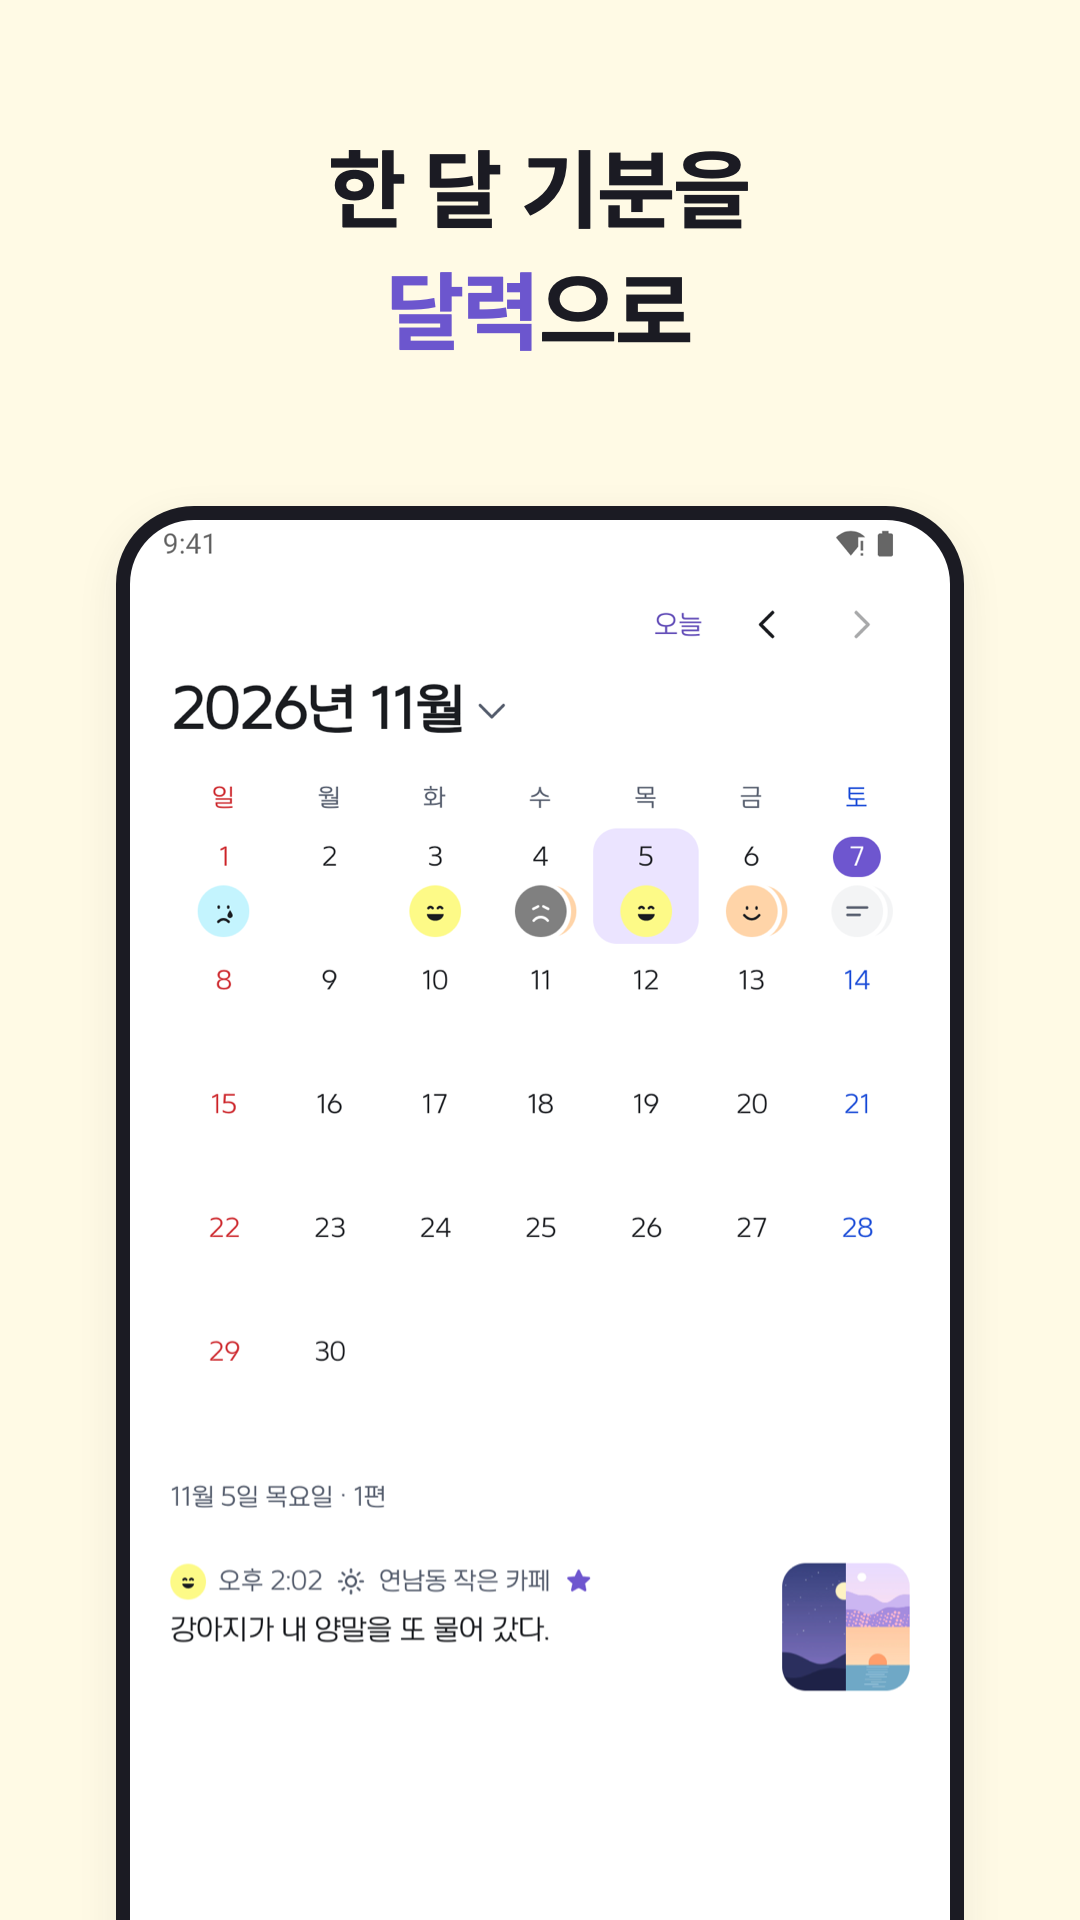
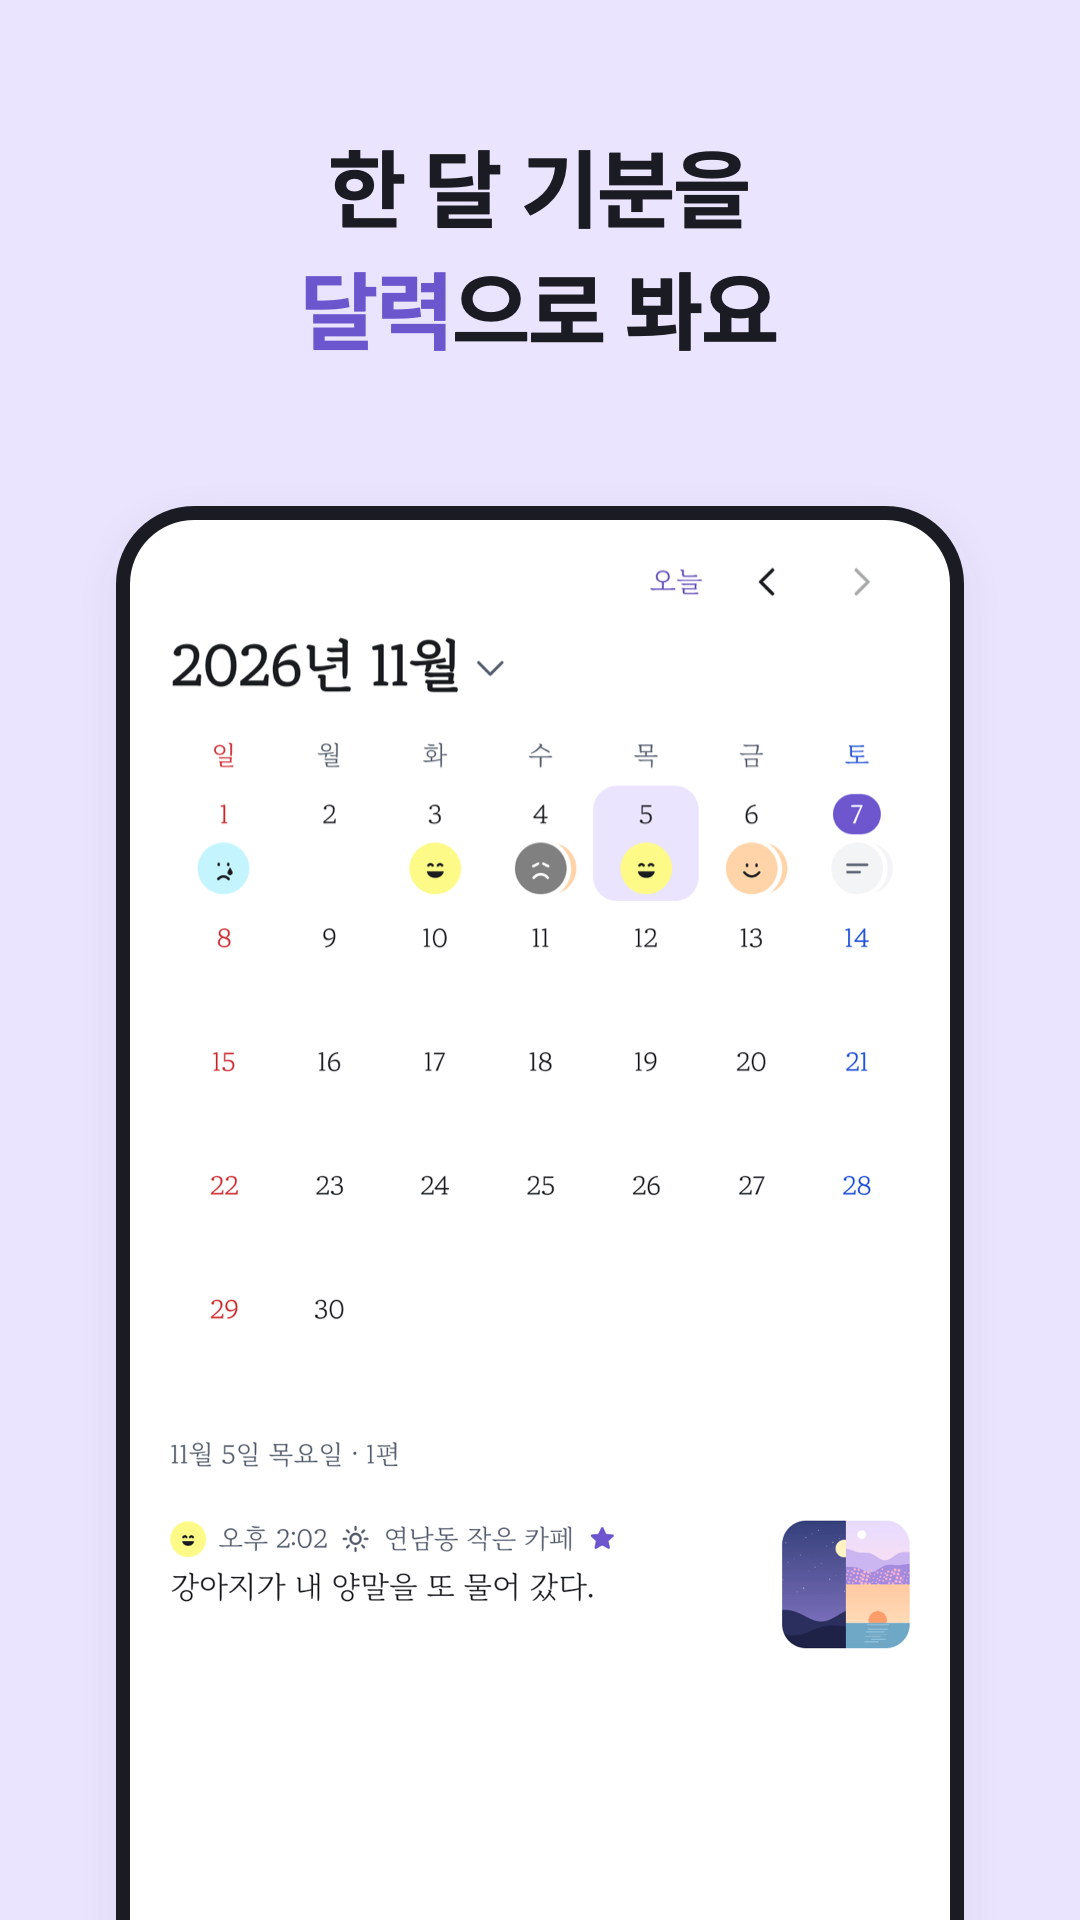
docs(release): 스토어 이미지를 시그니처 기능 다섯 장으로 다시 만들기
쓰기, 목록, 달력, 돌아보기, 백업만 보인다. 창원단감둥근체와 기본
피드형으로 찍고 상태 표시줄을 잘라 앱 전용 색 바탕 하나로 통일했다.
처리방침과 약관 문구를 다듬고 상호와 대표를 적었다.

diff --git a/scripts/store/make_screens.swift b/scripts/store/make_screens.swift
@@ -19,8 +19,8 @@ let ink = color(0x1B1B23)
 let weak = color(0x4A4A5C)
 let accent = color(0x6C56CE)
 
-/** 장마다 바뀌는 바탕. 앱의 기분 색에서 가져온다. */
-nonisolated(unsafe) var background = color(0xE7E0FF)
+/** 바탕은 앱 전용 색 하나다(`selected`). */
+let background = color(0xEBE4FF)
 
 func canvas(_ width: Int, _ height: Int, _ draw: () -> Void) -> NSBitmapImageRep {
     // 스토어는 알파 없는 PNG를 받는다.
@@ -48,6 +48,9 @@ func text(_ string: String, _ size: CGFloat, _ weight: String, _ tint: NSColor, 
     label.draw(in: rect)
 }
 
+/** 캡처 위쪽 상태 표시줄 높이. */
+let statusBar: CGFloat = 56
+
 func shot(_ name: String) -> NSImage { NSImage(contentsOfFile: "\(source)/\(name).png")! }
 
 func shadowed(_ alpha: CGFloat, _ blur: CGFloat, _ body: () -> Void) {
@@ -72,8 +75,10 @@ func phone(_ name: String, _ rect: NSRect, _ radius: CGFloat, bezel: Bool = true
     NSGraphicsContext.saveGraphicsState()
     NSBezierPath(roundedRect: rect, xRadius: radius, yRadius: radius).addClip()
     let image = shot(name)
-    let height = image.size.height * rect.width / image.size.width
-    image.draw(in: NSRect(x: rect.minX, y: rect.maxY - height, width: rect.width, height: height))
+    let scale = rect.width / image.size.width
+    let height = image.size.height * scale
+    // 상태 표시줄은 잘라 낸다.
+    image.draw(in: NSRect(x: rect.minX, y: rect.maxY - height + statusBar * scale, width: rect.width, height: height))
     NSGraphicsContext.restoreGraphicsState()
 }
 
@@ -82,18 +87,16 @@ func save(_ rep: NSBitmapImageRep, _ name: String) {
 }
 
 // 기준: 심플하고 미감 있고 잘 읽혀야 한다.
-// 옅은 바탕, 큰 제목, 곧게 놓은 실제 화면만 둔다.
+// 앱 색 바탕, 큰 제목, 곧게 놓은 실제 화면만 둔다.
 // 장식과 기울임을 넣지 않고 강조는 낱말 하나만 쓴다(2026-11-07 사용자 지적).
-let slides: [(UInt32, String, String, String)] = [
-    (0xF3F0FF, "w1", "바쁜 날에도\n일기를 남겨요", "일기"),
-    (0xEAF6FF, "b1", "사진까지\n내 드라이브에", "내 드라이브"),
-    (0xFFFAE5, "c1", "한 달 기분을\n달력으로", "달력"),
-    (0xFFF1F9, "l1", "내 일기는\n나만 보게", "나만"),
-    (0xEDFAF1, "f1", "글꼴 10종에서\n골라 써요", "10종"),
-    (0xFFF4E8, "h1", "지난 일기를\n사진과 함께", "사진")
+let slides: [(String, String, String)] = [
+    ("write", "오늘 기분부터\n가볍게 적어 봐요", "기분"),
+    ("list", "지난 일기가\n한눈에 보여요", "한눈에"),
+    ("calendar", "한 달 기분을\n달력으로 봐요", "달력"),
+    ("insight", "내 기분 흐름을\n돌아봐요", "돌아봐요"),
+    ("backup", "사진까지\n드라이브에 백업해요", "백업")
 ]
-for (index, (tint, name, words, word)) in slides.enumerated() {
-    background = color(tint)
+for (index, (name, words, word)) in slides.enumerated() {
     let rep = canvas(1080, 1920) {
         text(words, 88, "Bold", ink, NSRect(x: 40, y: 1500, width: 1000, height: 300), .center, accented: word)
         phone(name, NSRect(x: 130, y: -560, width: 820, height: 1960), 64)
@@ -101,11 +104,10 @@ for (index, (tint, name, words, word)) in slides.enumerated() {
     save(rep, "phone-\(index + 1)")
 }
 
-background = color(0xF3F0FF)
 let feature = canvas(1024, 500) {
-    text("바쁜 날에도\n일기를 남겨요", 60, "Bold", ink, NSRect(x: 76, y: 176, width: 500, height: 170), .left, accented: "일기")
+    text("바쁜 날에도\n일기를 남겨 봐요", 60, "Bold", ink, NSRect(x: 76, y: 176, width: 500, height: 170), .left, accented: "일기")
     text("회원가입 없이, 사진까지 내 드라이브에", 25, "Medium", weak, NSRect(x: 76, y: 118, width: 500, height: 44), .left)
     // 피처 그래픽에는 기기 틀을 넣지 않는다(Play 안내).
-    phone("h1", NSRect(x: 640, y: -640, width: 300, height: 1040), 26, bezel: false)
+    phone("list", NSRect(x: 640, y: -640, width: 300, height: 1040), 26, bezel: false)
 }
 save(feature, "feature")

diff --git a/composeApp/src/main/kotlin/org/sjhstudio/diary/helper/AlarmReceiver.kt b/composeApp/src/main/kotlin/org/sjhstudio/diary/helper/AlarmReceiver.kt
@@ -12,10 +12,12 @@ import android.os.Build
 import androidx.core.app.NotificationCompat
 import androidx.core.app.NotificationManagerCompat
 import androidx.core.content.ContextCompat
+import kotlin.coroutines.cancellation.CancellationException
 import kotlinx.coroutines.CoroutineScope
 import kotlinx.coroutines.Dispatchers
 import kotlinx.coroutines.flow.first
 import kotlinx.coroutines.launch
+import kotlinx.coroutines.withTimeoutOrNull
 import org.koin.core.component.KoinComponent
 import org.koin.core.component.get
 import org.sjhstudio.diary.MainActivity
@@ -39,14 +41,23 @@ class AlarmReceiver :
         val pending = goAsync()
         CoroutineScope(Dispatchers.Default).launch {
             try {
-                // 앱을 한 번도 열지 않았어도 옛 설정 잇기가 끝난 뒤의 설정으로 예약한다.
-                val startup = get<Startup>()
-                startup.start()
-                startup.state.first { it is StartupState.Ready }
-                // 옛 앱과 새 앱이 건 예약은 동작 없이 온다.
-                // 시스템 알림(부팅 같은)에는 동작이 있다.
-                if (intent.action == null) showReminder(context)
-                get<ReminderRepository>().reschedule()
+                // 시스템은 수신기를 오래 기다리지 않는다.
+                // 알림 하나 때문에 앱이 응답 없음으로 잡히면 안 된다.
+                withTimeoutOrNull(RECEIVER_MILLIS) {
+                    // 앱을 한 번도 열지 않았어도 옛 설정 잇기가 끝난 뒤의 설정으로 예약한다.
+                    val startup = get<Startup>()
+                    startup.start()
+                    startup.state.first { it is StartupState.Ready }
+                    // 옛 앱과 새 앱이 건 예약은 동작 없이 온다.
+                    // 시스템 알림(부팅 같은)에는 동작이 있다.
+                    if (intent.action == null) showReminder(context)
+                    get<ReminderRepository>().reschedule()
+                }
+            } catch (e: CancellationException) {
+                throw e
+            } catch (_: Exception) {
+                // 공간이 찬 기기에서 설정을 읽지 못해도 앱이 꺼지면 안 된다.
+                // 다음에 앱을 열면 다시 예약한다.
             } finally {
                 pending.finish()
             }
@@ -89,3 +100,5 @@ class AlarmReceiver :
         const val NOTIFICATION_ID = 1
     }
 }
+
+private const val RECEIVER_MILLIS = 8_000L

diff --git a/docs/legal/privacy.md b/docs/legal/privacy.md
@@ -1,9 +1,11 @@
-1일 1일기는 쓰신 일기를 개발자가 볼 수 없도록 만들었습니다. 회원 가입이 없고, 일기를 받아 두는 서버도 없습니다. 이 문서는 앱을 쓰실 때 어떤 정보가 어디로 가는지 있는 그대로 알려 드립니다.
+서주냥(대표 서준형)은 1일 1일기를 쓰시는 분의 개인정보를 이렇게 다룹니다.
+
+쓰신 일기는 개발자가 볼 수 없습니다. 회원 가입이 없고, 일기를 보관하는 서버도 없습니다.
 
 > **한눈에 보기**
 > 일기, 사진, 기분, 주소는 휴대폰과 직접 고른 구글 드라이브에만 저장합니다.
-> 개발자가 받는 정보는 앱 사용 통계와 오류 기록뿐이고, 일기 내용은 들어가지 않습니다.
-> 무료 버전에는 광고가 있어서 광고 ID가 광고 회사로 전달됩니다.
+> 개발자가 받는 정보는 앱 사용 통계와 오류 기록입니다. 일기 내용은 들어가지 않습니다.
+> 무료 버전에는 광고가 있어 광고 ID가 광고 회사로 전달됩니다.
 
 ---
 
@@ -34,7 +36,7 @@
 앱은 사용 통계, 오류 기록, 광고를 위해 앱 설치 식별자와 광고 ID를 씁니다.
 
 - **광고 ID 재설정 또는 삭제:** 안드로이드 설정 > 개인정보 보호 > 광고에서 할 수 있습니다.
-- **맞춤 광고 끄기:** 위 설정에서 광고 ID를 삭제하면 맞춤 광고를 받지 않습니다. 광고는 그대로 보이되 관심사와 관계없이 표시됩니다.
+- **맞춤 광고 끄기:** 위 설정에서 광고 ID를 삭제하면 맞춤 광고가 나오지 않습니다. 광고는 계속 보이지만 관심사와 관계없이 나옵니다.
 - **광고 없이 쓰기:** 광고 제거 또는 Plus를 구매하면 광고를 불러오지 않습니다.
 - **전체 중단:** 앱을 삭제하면 모든 수집이 멈춥니다.
 
@@ -42,7 +44,7 @@
 
 ## 4. 처리 위탁과 국외 이전
 
-개발자는 아래 회사에 업무를 맡기며, 앱을 쓰는 동안 인터넷으로 정보가 전송됩니다. 정보는 각 회사의 서버(미국 등)에 저장됩니다.
+아래 회사에 업무를 맡깁니다. 앱을 쓰는 동안 인터넷으로 정보가 전송되고, 각 회사의 서버(미국 등)에 저장됩니다.
 
 | 받는 회사 | 맡기는 일 | 항목 | 나라 |
 | --- | --- | --- | --- |
@@ -74,15 +76,15 @@
 - 전송 구간은 HTTPS로 암호화합니다.
 - 드라이브 접근은 앱이 만든 파일로 제한합니다.
 - 앱 잠금(번호, 생체 인증)을 제공합니다.
-- 개인정보를 다루는 사람을 개발자 본인으로 한정합니다.
+- 개인정보는 대표 본인만 다룹니다.
 
 ## 8. 아동의 개인정보
 
-만 14세 미만 아동을 대상으로 하지 않으며, 아동의 정보를 일부러 수집하지 않습니다.
+만 14세 미만 아동을 대상으로 하지 않으며, 아동의 개인정보를 수집하지 않습니다.
 
 ## 9. 개인정보 보호책임자
 
-- 직책: 1일 1일기 대표(개발자)
+- 성명: 서준형(서주냥 대표)
 - 이메일: sjunh812@naver.com
 
 개인정보 침해 상담은 아래 기관에서도 받으실 수 있습니다.

diff --git a/docs/legal/terms.md b/docs/legal/terms.md
@@ -1,15 +1,15 @@
-1일 1일기를 이용해 주셔서 감사합니다. 이 약관은 앱을 쓰실 때 필요한 약속을 담았습니다.
+서주냥(대표 서준형)이 제공하는 1일 1일기의 이용 조건입니다.
 
 > **한눈에 보기**
 > 쓰신 일기의 권리는 모두 본인에게 있습니다.
 > 구독은 1년마다 자동으로 갱신되고, 스토어에서 해지할 수 있습니다.
-> 일기를 지키려면 백업을 켜 두시길 권합니다.
+> 일기를 잃지 않으려면 백업을 켜 두세요.
 
 ---
 
 ## 1. 서비스
 
-1일 1일기는 일기를 쓰고 사진과 함께 보관하는 앱입니다. 회원 가입 없이 쓸 수 있습니다. 지금 무료로 제공하는 기능은 광고와 함께 무료로 쓸 수 있습니다.
+1일 1일기는 일기를 쓰고 사진과 함께 보관하는 앱입니다. 회원 가입 없이 쓸 수 있습니다. 무료 버전에는 광고가 나옵니다.
 
 ## 2. 일기의 권리
 
@@ -31,17 +31,17 @@
 
 ## 4. 백업과 책임
 
-일기는 기기와 직접 고른 구글 드라이브에 저장됩니다. 개발자는 일기 사본을 갖고 있지 않아서, 백업 없이 기기를 잃어버리거나 앱을 삭제하면 일기를 되찾아 드릴 수 없습니다. 드라이브 공간과 구글 계정은 본인이 관리합니다.
+일기는 기기와 직접 고른 구글 드라이브에 저장됩니다. 개발자는 일기 사본을 갖고 있지 않아서, 백업 없이 기기를 잃어버리거나 앱을 삭제하면 일기를 복원해 드릴 수 없습니다. 드라이브 공간과 구글 계정은 본인이 관리합니다.
 
 법령이 허용하는 범위에서, 개발자의 고의나 중대한 과실이 없는 데이터 손실과 기기, 스토어, 구글 드라이브 장애에 대해서는 책임을 지지 않습니다.
 
 ## 5. 지켜 주실 일
 
-앱을 분해하거나 변조해 유료 기능을 우회하지 말아 주세요. 다른 사람의 권리를 침해하는 내용을 공유하지 말아 주세요.
+앱을 변조해 유료 기능을 우회하면 안 됩니다. 다른 사람의 권리를 침해하는 내용을 공유하면 안 됩니다.
 
 ## 6. 서비스 변경
 
-앱은 더 나아지기 위해 바뀔 수 있습니다. 불리하게 바뀌는 내용은 시행 7일 전에 앱이나 이 페이지에서 알립니다.
+앱의 기능과 화면은 바뀔 수 있습니다. 이용자에게 불리한 변경은 시행 7일 전에 앱이나 이 페이지에서 알립니다.
 
 ## 7. 문의
 

diff --git a/docs/release.md b/docs/release.md
@@ -51,16 +51,16 @@ Play는 기존 앱 업데이트, App Store는 새 출시다. 조사일 2026-10-3
 앱 화면도 그 언어로 찍는다. 틀은 Figma "화면" 페이지 아래 "스토어"
 섹션에 컴포넌트로 두고 폰·태블릿·iPad 크기 변형을 같이 둔다. 순서 초안:
 
-1. 오늘을 한 장에(쓰기 화면)
-2. 사진까지 안전하게 백업(백업 상태)
-3. 기분 달력과 통계
-4. 잠금으로 나만 보는 일기
-5. 글꼴 고르기
-6. 지난 일기를 사진과 함께
-7. 태블릿에서 넓게(목록·상세 두 칸, 아직 찍지 않음)
+1. 쓰기(기분, 사진, 서식)
+2. 일기 목록(기본 피드형)
+3. 달력
+4. 돌아보기(기분 통계)
+5. 백업
 
-폰 6장과 피처 그래픽은 `docs/store/screens/`에 있고 문구는 `docs/store/listing.md`에 있다(2026-11-07).
-기준은 심플, 미감, 가독성이다. 옅은 바탕, 큰 제목, 곧게 놓은 실제 화면만 둔다. 장마다 바탕 톤만 바꾸고 강조는 낱말 하나다. 도형, 스티커, 기울인 카드는 넣지 않는다(2026-11-07 사용자 지적).
+시그니처 기능 다섯 가지만 보인다(2026-11-07 사용자 결정). 글꼴은 창원단감둥근체, 상태 표시줄은 잘라 낸다.
+
+폰 5장과 피처 그래픽은 `docs/store/screens/`에 있고 문구는 `docs/store/listing.md`에 있다(2026-11-07).
+기준은 심플, 미감, 가독성이다. 앱 전용 색(`selected`) 바탕 하나, 큰 제목, 곧게 놓은 실제 화면만 둔다. 강조는 낱말 하나다. 도형, 스티커, 기울인 카드는 넣지 않는다(2026-11-07 사용자 지적).
 
 ## 소개 문구
 
